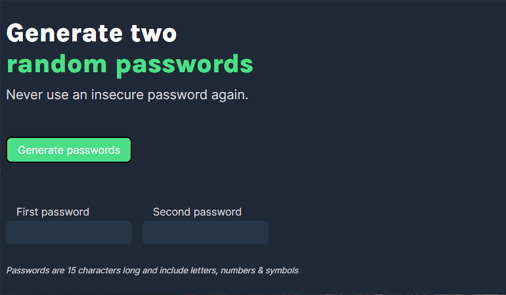
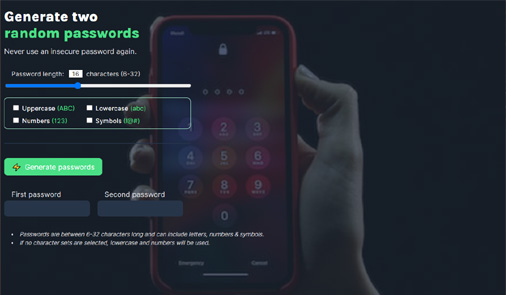
updated password generator image and description

diff --git a/src/projComponents/ProjectCard.js b/src/projComponents/ProjectCard.js
@@ -51,7 +51,7 @@ const jsDomProjects = [
     {img: "lambda-times.jpg", name: "Lambda Times", type: "5.5 Sprint Challenge V: Applied JavaScript", visit: "https://vishalicious213.github.io/5.5-Sprint-Challenge-Applied-Javascript-v2/", view: "https://github.com/vishalicious213/5.5-Sprint-Challenge-Applied-Javascript-v2", desc: "This project tied together the DOM, components, axios & HTTP get requests through JavaScript. Article data was retrieved from an API & required manipulation of nested objects & arrays.", stack: ["js", "dom", "axios"]},
     {img: "github-usercard.jpg", name: "GitHub Followers", type: "5.4 Components II", visit: "https://vishalicious213.github.io/5.4-github-usercard-v2/", view: "https://github.com/vishalicious213/5.4-github-usercard-v2", desc: "Accessed the GitHub API using the axios JavaScript library and built a component that creates social cards of my GitHub followers based on returned data.", stack: ["js", "dom", "axios"]},
     {img: "dnd-stat-roller.jpg", name: "D&D Stat Roller", type: "Personal Project", visit: "https://adnd-stat-roller.netlify.app/", view: "https://github.com/vishalicious213/dnd-stat-roller", desc: "AD&D 2nd Edition character stat generator using 3d6 method and adding racial modifiers for dwarf, elf, gnome, halfling (human and half-elf don't modift stats).", stack: ["js", "dom"]},
-    {img: "pw-generator.jpg", name: "Random Password Generator", type: "Personal Project", visit: "https://vish213-pwgen.netlify.app/", view: "https://github.com/vishalicious213/password-generator", desc: "Generates two random 15-character password strings with the click of a button using letters, numbers & symbols and renders them onscreen for visitor to copy.", stack: ["js", "dom"]},
+    {img: "pw-generator.jpg", name: "Random Password Generator", type: "Personal Project", visit: "https://vish213-pwgen.netlify.app/", view: "https://github.com/vishalicious213/password-generator", desc: "Generates two random password strings with the click of a button and renders them onscreen for visitor to copy. Visitor can choose to use letters, numbers & symbols and can select password length.", stack: ["js", "dom"]},
     {img: "singh-fighter.jpg", name: "Singh Fighter", type: "Personal Project", visit: "https://vish213-sf.netlify.app/", view: "https://github.com/vishalicious213/singh-fighter", desc: "Small project to entertain my kids. Based on Emoji Fighter project. Lets the girls randomly generate combatants from our family and a few other odds & ends.", stack: ["js", "dom"]},
     {img: "emoji-fighter.jpg", name: "Emoji Fighter", type: "Personal Project", visit: "https://vish213-emoji-fighter.netlify.app/", view: "https://github.com/vishalicious213/emoji-fighter", desc: "Uses the Math.random() and Math.floor() functions to generate a random integer and render two emoji characters in a Street Fighter II matchup splash screen.", stack: ["js", "dom"]},
     {img: "basketball-scoreboard.jpg", name: "Basketball Scoreboard", type: "Personal Project", visit: "https://vish213-basket-score.netlify.app/", view: "https://github.com/vishalicious213/basketball-scoreboard", desc: "Basketball scoreboard. Three buttons per team to increment score by 1, 2 or 3 points. Made use of getElementById to wire button-connected functions to HTML elements.", stack: ["js", "dom"]},
